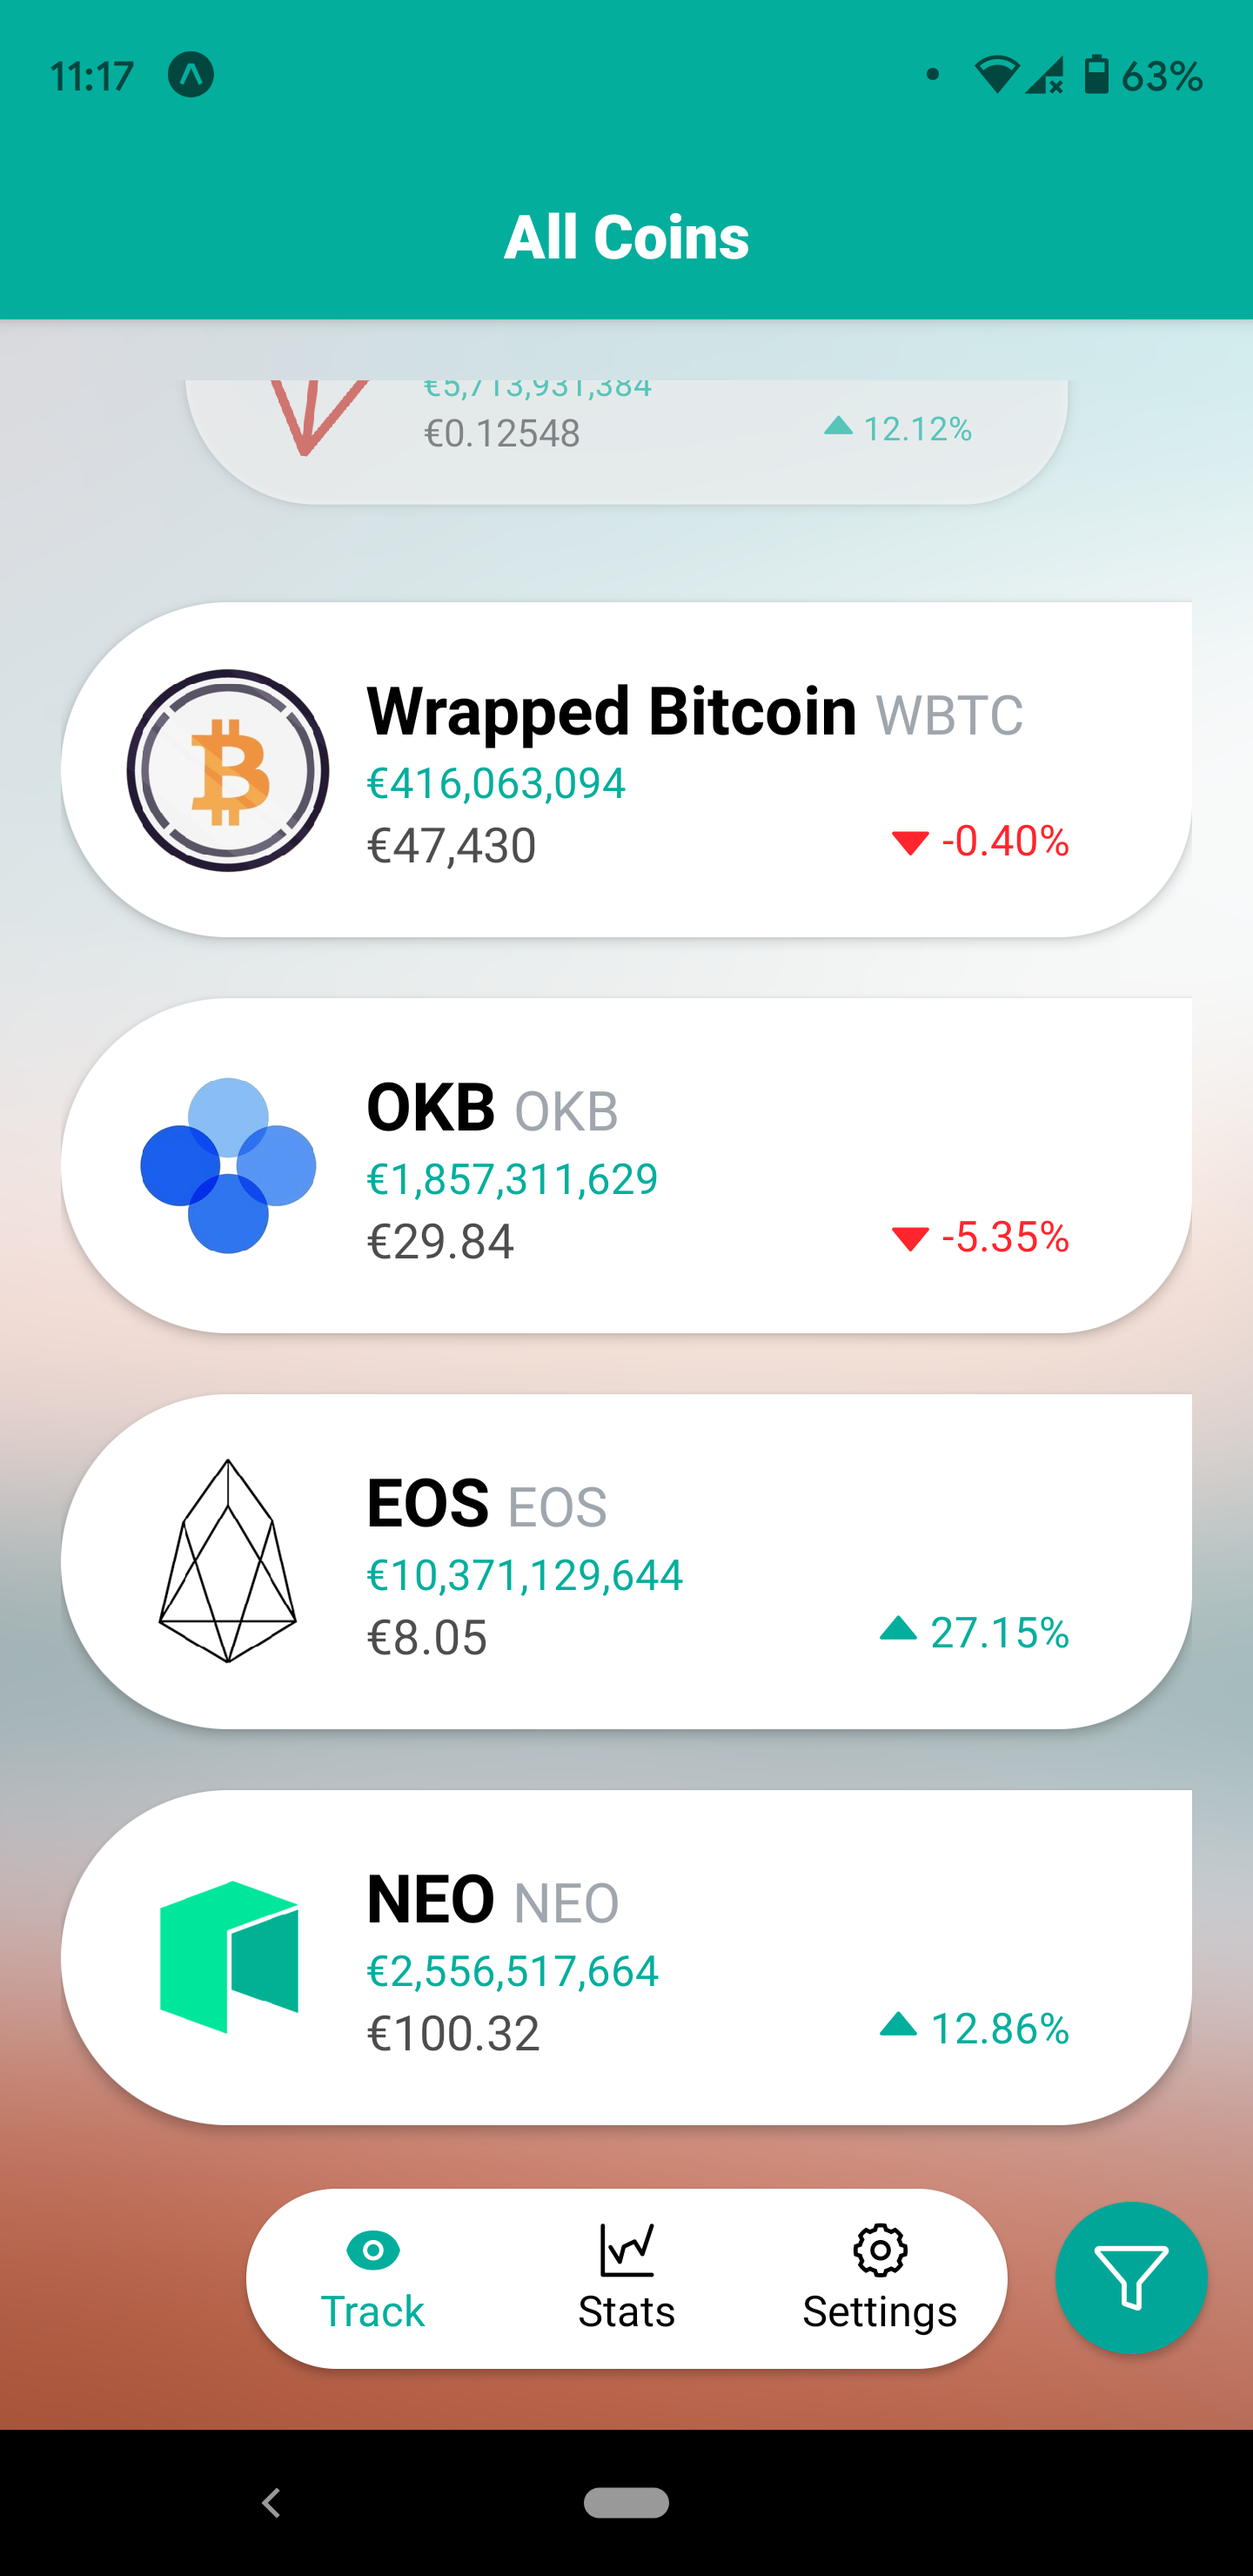
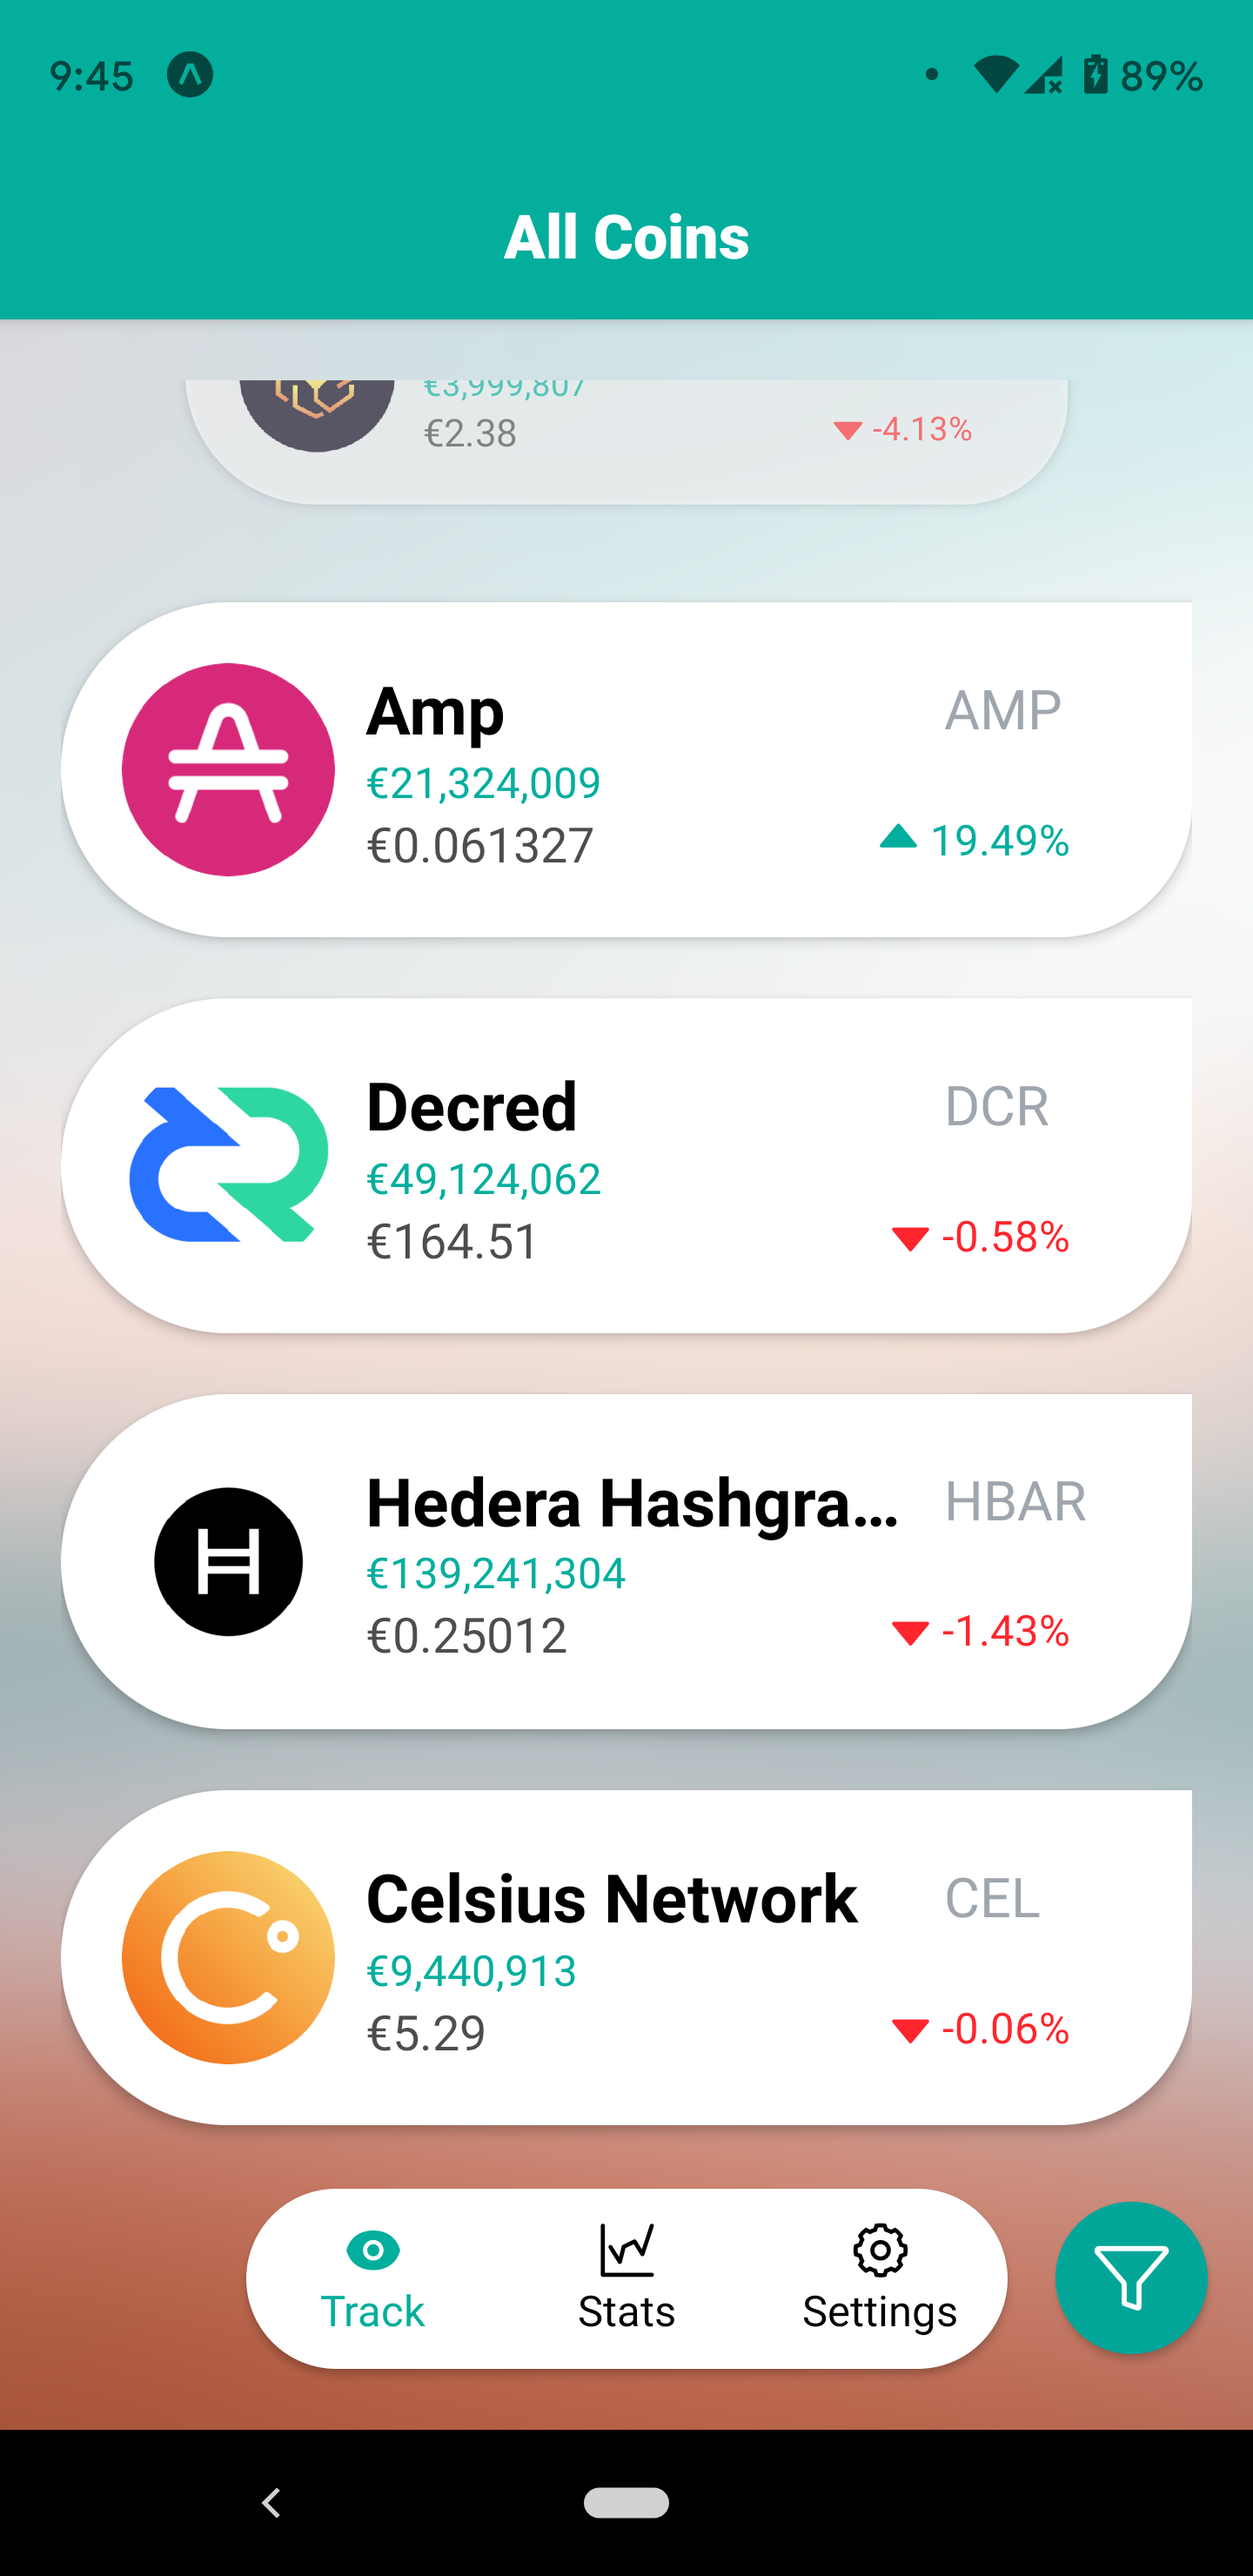
Limit length of Text displayed in Cards

diff --git a/app/components/CoinList.js b/app/components/CoinList.js
@@ -9,7 +9,6 @@ import {
   StyleSheet,
   Pressable,
   ActivityIndicator,
-  Dimensions,
 } from 'react-native';
 import { AntDesign } from '@expo/vector-icons';
 
@@ -17,7 +16,6 @@ const AnimatedPressable = Animated.createAnimatedComponent(Pressable);
 const SPACING = 20;
 const AVATAR_SIZE = 70;
 const ITEM_SIZE = AVATAR_SIZE + SPACING * 3;
-const WIDTH = Dimensions.get('window').width;
 
 const CoinList = () => {
   const [coins, setCoins] = useState([]);
@@ -46,7 +44,7 @@ const CoinList = () => {
       .get(baseUrl)
       .then((res) => {
         if (page > 1) {
-          setCoins([...data, ...res.data]);
+          setCoins([...coins, ...res.data]);
         } else {
           setCoins(res.data);
         }
@@ -118,9 +116,16 @@ const CoinList = () => {
       >
         <Image style={styles.itemImage} source={{ uri: item.image }} />
         <View style={styles.wrapper}>
-          <Text style={styles.baseText}>
-            {item.name} <Text style={styles.innerText}>{item.symbol}</Text>
-          </Text>
+          <View style={styles.coinText}>
+            <Text
+              style={styles.baseText}
+              ellipsizeMode='tail'
+              numberOfLines={1}
+            >
+              {item.name}
+            </Text>
+            <Text style={styles.innerText}>{item.symbol}</Text>
+          </View>
           <Text style={styles.itemVolume}>
             &euro;{numberFormat(item.total_volume)}
           </Text>
@@ -150,7 +155,7 @@ const CoinList = () => {
   };
 
   const fetchMore = () => {
-    // setPage(page + 1);
+    setPage(page + 1);
     setLoading(true);
   };
 
@@ -208,9 +213,16 @@ const styles = StyleSheet.create({
     fontSize: 14,
     color: '#03AE9D',
   },
+  coinText: {
+    flexDirection: 'row',
+    alignItems: 'center',
+    height: 'auto',
+  },
   baseText: {
     fontSize: 22,
     fontWeight: '700',
+    marginRight: 10,
+    width: SPACING * 9,
   },
   innerText: {
     fontSize: 18,
